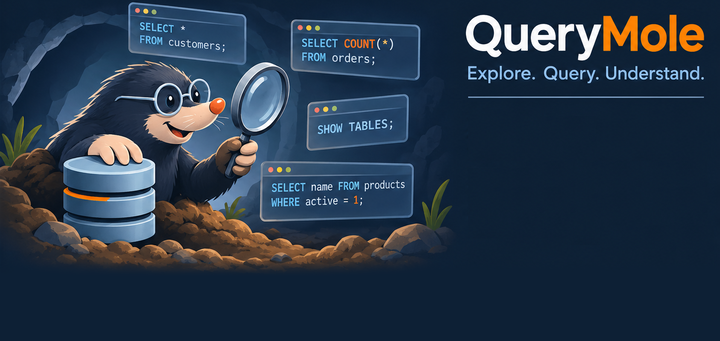
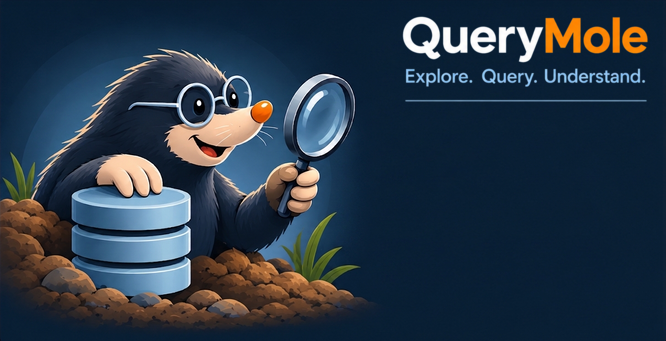
Use the second QueryMole artwork with a separate wordmark in About
The first artwork had the wordmark painted in and a 2.6:1 format, so the
About picture needed a band below it and the text column could only be
placed roughly under the wordmark. The owner replaced it by two images:
the mole on an empty navy background (about 2:1) and the wordmark with
slogan and rule on a transparent background.

make_branding.sh scales the artwork to the dialog's picture height
(666x341, no band) and sets the wordmark top right. The text column is
aligned with the rule under the slogan; its position is now kept in
constants in CommonFuncs (AboutColLeft/Top/Width) instead of scattered
numbers. ADR-0032 describes the second version.

Checked by screenshot (About and Credits) under Linux.

diff --git a/docs/adr/0032-querymole-artwork-in-the-about-dialog.md b/docs/adr/0032-querymole-artwork-in-the-about-dialog.md
@@ -1,14 +1,14 @@
 # ADR-0032 — QueryMole artwork in the About dialog
 
-- Status: Accepted (implemented)
+- Status: Accepted (implemented; second version of the artwork, with a separate wordmark, the same day)
 - Date: 2026-11-15
 - Deciders: Harald Lapp (project owner)
 
 ## Context
 
 ADR-0030 removed the MySQL logo from the About picture and set the word "QueryMole" on the original's gradient as
-a placeholder; the final logo was deferred. The owner has now supplied a QueryMole artwork
-(`assets/querymole-about.png`, 1423x547, generated with an OpenAI image model; `docs/licenses.md`): a mole with a
+a placeholder; the final logo was deferred. The owner has now supplied a QueryMole artwork (first
+version: `assets/querymole-about.png`, 1423x547, generated with an OpenAI image model; `docs/licenses.md`): a mole with a
 magnifier and SQL snippets on a dark navy background, on the right the "QueryMole" wordmark, the line "Explore.
 Query. Understand." and a thin rule below it, and empty background under that.
 
@@ -18,15 +18,19 @@ pixels it would be 171 pixels high and the wordmark hard to read; grey text on n
 
 ## Decision
 
-- **Picture.** `tools/make_branding.sh` writes `app/images/about.png` at **720x341**: the artwork scaled to 720x277
-  on its background colour (`rgb(13,32,53)`), its lowest rows faded into the 64-pixel band below. The master stays
-  in `assets/`; the generated file is committed like the other branding images (ADR-0030).
-- **Dialog.** `CommonFuncs.CreateAboutForm` takes the dialog's width from the picture (720 instead of 444; buttons
-  and bevel follow) and puts the texts in a column right of the mole, **below the rule under the slogan** (x = 468,
-  from y = 106, 240 pixels wide, down to the button line). The texts are light (`rgb(206,218,232)` for the
-  version, `rgb(160,178,200)` for the rest) instead of `clGray`. `About.lfm` stays as converted; the changes are
-  made at run time like those of ADR-0026 and ADR-0031.
-- **Lines set by hand.** A 240-pixel column wraps long sentences at random places, so the lines are broken in the
+- **Picture** (second version of the artwork, the same day). The owner replaced the first artwork, which had the
+  wordmark painted in, by two images: the mole on the left of an empty navy background (`assets/querymole-about.png`,
+  1210x620) and the wordmark with slogan and rule on a transparent background (`assets/querymole-text-1.png`).
+  `tools/make_branding.sh` scales the artwork to the dialog's picture height (**666x341**, no band needed at about
+  2:1) and sets the wordmark top right (250 pixels wide at x 400, y 14). Kept apart, the wordmark stays sharp and can
+  be placed exactly over the text column. The masters stay in `assets/`; the generated file is committed like the
+  other branding images (ADR-0030).
+- **Dialog.** `CommonFuncs.CreateAboutForm` takes the dialog's width from the picture (666 instead of 444; buttons
+  and bevel follow) and puts the texts in a column right of the mole, **below the rule under the slogan**, aligned
+  with it (`AboutColLeft`/`AboutColTop`/`AboutColWidth`: x = 405, from y = 108, 242 pixels wide, down to the button
+  line). The texts are light (`rgb(206,218,232)` for the version, `rgb(160,178,200)` for the rest) instead of
+  `clGray`. `About.lfm` stays as converted; the changes are made at run time like those of ADR-0026 and ADR-0031.
+- **Lines set by hand.** A 242-pixel column wraps long sentences at random places, so the lines are broken in the
   text where possible:
 
   ```
@@ -81,11 +85,11 @@ Positive:
 Negative / costs:
 
 - A further visible deviation from the original (size, layout, colours of the dialog), on top of ADR-0030's.
-- The dialog is 276 pixels wider than the original; the splash code (`ShowSplashScreen`, unused) would show the
+- The dialog is 222 pixels wider than the original; the splash code (`ShowSplashScreen`, unused) would show the
   picture with the version only, in the old place.
 - The column's position and the text colours are numbers in code that belong to the picture: a new artwork with
   the wordmark elsewhere needs them changed (the script's comment says so).
-- The column is narrow: the hand-set lines only fit as long as each line fits 240 pixels; a translation or a wider
+- The column is narrow: the hand-set lines only fit as long as each line fits 242 pixels; a translation or a wider
   font wraps them again (still readable, but no longer tidy). The credits view is the fullest (two headings and
   about 10 lines); there is room left above the button line, but not much. Checked under Linux (GTK2, Wine's Tahoma at -10); the Windows layout with Microsoft's Tahoma at
   -11 is not verified yet.
@@ -94,6 +98,8 @@ Negative / costs:
 
 - **Keep the 444-pixel dialog, artwork on top.** Rejected: at 171 pixels height the wordmark and the mole are too
   small to read.
+- **The first artwork with the wordmark painted in (720x341, a band below it).** Replaced by the owner: the wordmark
+  could not be moved or kept sharp, and the picture needed a band to reach the dialog's height.
 - **560-pixel dialog, texts in the dark band below the artwork** (implemented first). Works, but the texts stand
   apart from the artwork and the empty area under the wordmark stays empty; the owner preferred the column.
 - **Column with the texts as wrapped paragraphs** (first version of the column). Rejected: the version line broke

diff --git a/docs/licenses.md b/docs/licenses.md
@@ -83,7 +83,7 @@ Recommendation: ask the Lazarus maintainers before the first public release.
 | `fonts/Vera*.ttf` (Bitstream Vera Mono) | Bitstream Vera licence: free to use, copy and redistribute, with the licence text accompanying; names may not be used for modified fonts. The text is embedded in the font; `docs/third-party/Bitstream-Vera-fonts.txt` holds it and the package includes it (`licenses/fonts/`). |
 | `fonts/tahoma.ttf`, `tahomabd.ttf` (Wine's stand-in for Tahoma; Linux and macOS packages only) | Copyright (c) 2004 Larry Snyder, derived from Bitstream Vera Sans (renamed, as the Vera licence demands), distributed by the Wine project under LGPL-2.1-or-later (the text is in the font's licence field and in `third_party/fonts/wine-tahoma/LICENSE-LGPL-2.1.txt`). Unmodified copies, so the licence is met by shipping the notices (`licenses/fonts/`); the fonts are loaded as data files, not linked into the program. Microsoft's Tahoma is not shipped. Provenance and checksums: `third_party/fonts/wine-tahoma/README.md`. |
 | Icons, images, resources compiled from `legacy/` | Part of the original GPL product (Copyright MySQL AB). OK; trademark aspects are separate (see below). |
-| QueryMole artwork, icon and wordmark (`assets/querymole-about.png`, `assets/querymole-icon.png`, `assets/querymole-text.png`; About picture, application icon and the other pictures made from them, ADR-0032, ADR-0033) | Generated by the project owner with an OpenAI image model (2026-11-15). OpenAI's terms assign the rights in the output, as far as any exist, to the user; a picture made without human authorship is probably not protected by copyright at all (DE, US). Either way nothing restricts shipping it with the program; it is distributed under the project's licence. No third party's notice is needed in `NOTICE`. |
+| QueryMole artwork, icon and wordmark (`assets/querymole-about.png`, `assets/querymole-icon.png`, `assets/querymole-text.png`, `assets/querymole-text-1.png`; About picture, application icon and the other pictures made from them, ADR-0032, ADR-0033) | Generated by the project owner with an OpenAI image model (2026-11-15). OpenAI's terms assign the rights in the output, as far as any exist, to the user; a picture made without human authorship is probably not protected by copyright at all (DE, US). Either way nothing restricts shipping it with the program; it is distributed under the project's licence. No third party's notice is needed in `NOTICE`. |
 | `locale/*.po` translations | Original GPL product; translators' names are in the files. OK. |
 | Velopack (installer and `Update.exe` in the Setup) | Velopack is MIT licensed (not verified against the installed vpk 1.2.0 for this review). |
 
